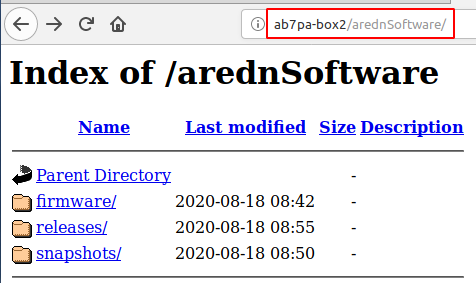
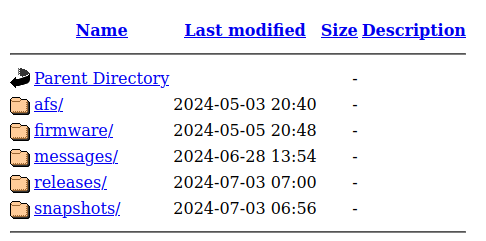
update local software server proc (#373)

diff --git a/arednHow-toGuides/local-software-source.rst b/arednHow-toGuides/local-software-source.rst
@@ -17,10 +17,36 @@ There are several ways to accomplish these tasks, and the best approach may vary
 
 ::
 
-  /usr/bin/rsync -r downloads.arednmesh.org::aredn_firmware /var/www/html/arednSoftware/
+  /usr/bin/rsync -rv --delete --size-only downloads.arednmesh.org::aredn_firmware /var/www/html/arednSoftware/
 
-Once you have downloaded the AREDN |trade| files, you need to make them available to network nodes via your web server. The steps for accomplishing this task will vary based on the specific web server software you are using. For example, using the `Apache Web Server <https://en.wikipedia.org/wiki/Apache_HTTP_Server>`_, you could store the software files under the web server's *DocumentRoot* (as in the example above) or you could create an ``Alias`` to allow web access to parts of the filesystem that are not under the Apache *DocumentRoot* (as described `here <https://http
-d.apache.org/docs/2.4/urlmapping.html>`_). Once the software has been made available via the web server, you should be able to enter that URL to navigate the entire software tree as shown below.
+Once you have a local duplicate of the AREDN |trade| files, you need to verify that your copy of the files have the correct path pointing to your local software repository. In the example above, the local repository was placed in /var/www/html/arednSoftware, so you will navigate to that directory.
+
+::
+
+  cd /var/www/html/arednSoftware
+
+Under this directory you should see the ``afs`` subdirectory which contains all of the information used by the AREDN |trade| Firmware Selector. Navigate into the ``afs/www`` subdirectory and use the editor of your choice to edit the ``config.js`` file. Locate the *Image download URL* section and change the default value of the *image_url* variable to point to your local download server. The default value is ``image_url: "http://downloads.arednmesh.org"`` and the example below shows the line edited to point to our example server.
+
+::
+
+  image_url: "http://ab7pa-box2.local.mesh/arednSoftware/",
+
+Once the ``config.js`` file has the correct local URL, you must write the new path into all of the firmware selection entries. You accomplish this by running a `Python3 <https://en.wikipedia.org/wiki/Python_(programming_language)>`_ script that ensures all of the files receive the current configuration settings from ``config.js``. Navigate to the top level directory where you stored your copy of the arednmesh files (in our example the local repository was placed in /var/www/html/arednSoftware) and run the ``collect.py`` script to update the local URL path. It resides in the ``afs/misc`` directory and requires two arguments.
+
+1. the path to the top level directory where you stored the arednmesh files (in our example: /var/www/html/arednSoftware)
+2. the path to the AFS www directory (in our example: /var/www/html/arednSoftware/afs/www)
+
+Since you will already be in the *arednSoftware* directory, you can use relative paths as in the example below.
+
+::
+
+  cd /var/www/html/arednSoftware
+  ./afs/misc/collect.py  .  ./afs/www/
+
+Now your local AREDN |trade| software source is configured to serve its files to any local nodes which want to update their firmware from your repository.
+
+Next make these files available to network nodes via your web server. The steps for accomplishing this task will vary based on the specific web server software you are using. For example, using the `Apache Web Server <https://en.wikipedia.org/wiki/Apache_HTTP_Server>`_, you could store the software files under the web server's *DocumentRoot* (as in the example above) or you could create an *Alias* to allow web access to parts of the filesystem that are not under the Apache *DocumentRoot* (as described `here <https://http
+d.apache.org/docs/2.4/urlmapping.html>`_). Once the software has been made available via the web server, you should be able to enter that URL in a web browser to see the entire software tree as shown in the example below.
 
 .. image:: _images/view-software-repo.png
    :alt:  View the local software repository
@@ -28,24 +54,14 @@ d.apache.org/docs/2.4/urlmapping.html>`_). Once the software has been made avail
 
 |
 
-These tasks are all that should be required on your local software host. Once the software tree is available via its web server, you can begin pointing the nodes to your local software repository.
+Once the software is available via your web server, you can begin pointing the nodes to your local software repository.
 
 Point nodes to the local server
 ===============================
 
-To point a node to the local software repository, navigate to **Setup > Advanced Configuration**. The table on this webpage has a row for each type of software that can be installed on AREDN |trade| nodes. It might be a good idea to take a screenshot of these settings so you can refer to them later. A typical default URL for *firmwarepath* is shown below:
+To point a node to the local software repository, navigate to **Setup > Advanced Configuration > Firmware**. The table on this page has a row for each type of software that can be installed on AREDN |trade| nodes. It might be a good idea to take a screenshot of these settings so you can refer to them later. The default URL for *firmwarepath* is ``http://downloads.arednmesh.org/firmware``
 
-::
-
-  http://downloads.arednmesh.org/firmware
-
-Simply replace this URL with the one that you configured on your local software host, then click the *Save Setting* button on that row. For example, the new entry for *firmwarepath* might look like the one below:
-
-::
-
-  http://ab7pa-box2.local.mesh/arednSoftware/firmware
-
-It is good practice to use the `fully qualified domain name (FQDN) <https://en.wikipedia.org/wiki/Fully_qualified_domain_name>`_ so the node will be able to resolve the domain portion of the URL to the mesh host's IP address. The URL you enter should match exactly with the alias or path you created and tested on your web server as described in the previous section.
+Simply replace this URL with the one that you configured on your local software host, then click the *Save Setting* button on that row. It is good practice to use the `fully qualified domain name (FQDN) <https://en.wikipedia.org/wiki/Fully_qualified_domain_name>`_ so the node will be able to resolve the domain portion of the URL to the mesh host's IP address. The URL you enter should match the alias or path you created and tested on your web server as described in the previous section.
 
 .. image:: _images/set-software-host.png
    :alt:  Advanced Configuration - set software URL
@@ -53,9 +69,9 @@ It is good practice to use the `fully qualified domain name (FQDN) <https://en.w
 
 |
 
-After you have entered the new URL, click the **Save Setting** button to activate the new entry. To restore the default entry, click the **Set to Default** button.
+To restore the default entry, click the *Set to Default* button followed by *Save Settings*.
 
-Once the node has been pointed to the local software repository, you can navigate to **Setup > Administration**. In the firmware and package sections, you can click the **Refresh** button to get the list of available software from the local software repository.
+Once the node has been pointed to the local software repository, you can navigate to **Setup > Administration**. In the firmware section you can click the **Refresh** button to get the list of available software from the local software repository.
 
 .. image:: _images/refresh-software-list.png
    :alt:  Administration - refresh software list
@@ -63,24 +79,4 @@ Once the node has been pointed to the local software repository, you can navigat
 
 |
 
-The following example shows the type of information returned when you click the **Refresh** button:
-
-::
-
-  Package Management
-
-  Downloading http://ab7pa-box2.local.mesh/arednSoftware/snapshots/packages/mips_24kc/base/packages.gz
-  Updated list of available packages in /var/opkg-lists/aredn_base
-  Downloading http://ab7pa-box2.local.mesh/arednSoftware/snapshots/packages/mips_24kc/base/packages.sig
-  Signature check passed.
-  Downloading http://ab7pa-box2.local.mesh/arednSoftware/snapshots/packages/mips_24kc/arednpackages/packages.gz
-  Updated list of available packages in /var/opkg-lists/aredn_arednpackages
-  Downloading http://ab7pa-box2.local.mesh/arednSoftware/snapshots/packages/mips_24kc/arednpackages/packages.sig
-  Signature check passed.
-  Downloading http://ab7pa-box2.local.mesh/arednSoftware/snapshots/packages/mips_24kc/luci/packages.gz
-  Updated list of available packages in /var/opkg-lists/aredn_luci
-  Downloading http://ab7pa-box2.local.mesh/arednSoftware/snapshots/packages/mips_24kc/luci/packages.sig
-  Signature check passed.
-  ...
-
-Click the **Select firmware** or **Select package** dropdown lists to see the software available for download from the local software server. Select a firmware image or package and click the **Download** button. Status information will appear showing the actions that were taken to install the software from the local software host. A message may appear that a reboot is required to refresh and restart all services, but this is a normal status message and does not indicate an error condition.
+Click the **Select firmware** dropdown list to see the software available for download from the local software server. Select a firmware image and click the **Download** button. Status information will appear showing the actions that were taken to install the software from the local software host. A message may appear that a reboot is required to refresh and restart all services, but this is a normal status message and does not indicate an error condition.
